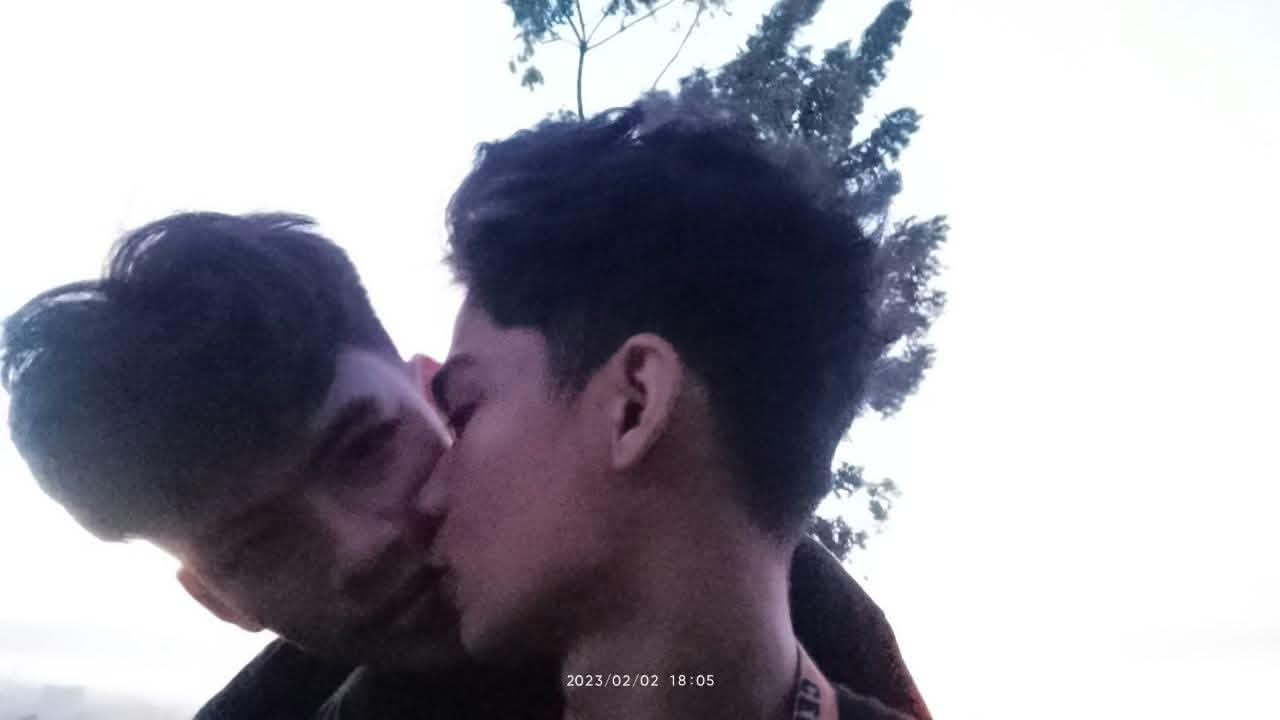
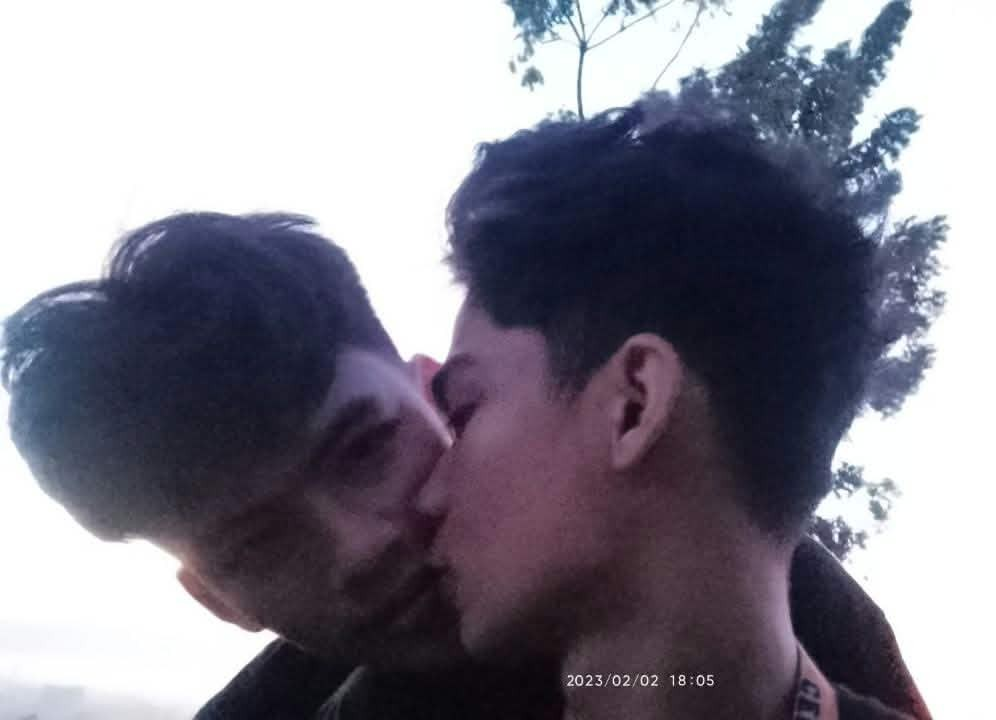
modified timelines & gallery

diff --git a/js/content.js b/js/content.js
@@ -30,33 +30,33 @@
                 {
                     year: '2023',
                     date: 'February 2023',
-                    title: 'The first hello',
-                    caption: 'That quiet little moment when everything suddenly felt brighter.',
-                    image: 'images/image2.jpg',
-                    alt: 'The first hello'
+                    title: 'The first kiss',
+                    caption: 'Our first kiss, a little moment that turned into one of my favorite memories with you.',
+                    image: 'images/image23.jpg',
+                    alt: 'Our first kiss, the beginning of a beautiful love story'
                 },
                 {
                     year: '2024',
-                    date: 'Summer 2024',
-                    title: 'Little adventures',
-                    caption: 'New places, laughter, and the kind of memories we still smile about.',
-                    image: 'images/image3.jpg',
-                    alt: 'Little adventures'
+                    date: 'April 2024',
+                    title: 'Our little family',
+                    caption: 'Me, you, and our little fur baby. Three hearts, one little family, and countless memories to cherish.',
+                    image: 'images/image14.jpg',
+                    alt: 'Me, my partner, and our beloved cat together'
                 },
                 {
                     year: '2025',
-                    date: 'March 2025',
-                    title: 'Our favorite rhythm',
-                    caption: 'The ordinary days that turned into our favorite story.',
-                    image: 'images/image4.jpg',
-                    alt: 'Our favorite rhythm'
+                    date: 'Summer 2025',
+                    title: 'Little adventures',
+                    caption: 'New places, laughter, and the kind of memories we still smile about.',
+                    image: 'images/image8.jpg',
+                    alt: 'Little adventures'
                 },
                 {
                     year: '2026',
                     date: 'Now',
                     title: 'Still choosing us',
                     caption: 'Every day with you feels like a small love letter we get to keep.',
-                    image: 'images/image5.jpg',
+                    image: 'images/image9.jpg',
                     alt: 'Still choosing us'
                 }
             ],
@@ -71,16 +71,38 @@
         },
 
         /* ---------- SECTION 3: PHOTO BOOTH GALLERY ---------- */
+        //8, 9, 14, 23
         gallery: {
             title: 'Photo Booth',
             subtitle: 'Drag, swipe or use the arrows',
             photos: [
-                { src: 'images/image5.jpg', caption: 'Us in bloom' },
-                { src: 'images/image6.jpg', caption: 'Sweet little moments' },
-                { src: 'images/image7.jpg', caption: 'Golden hour' },
-                { src: 'images/image8.jpg', caption: 'Happy us' },
-                { src: 'images/image9.jpg', caption: 'Always together' },
-                { src: 'images/image10.jpg', caption: 'Forever favorite' }
+                { src: 'images/image1.jpg', caption: 'Beach days with you' },
+                { src: 'images/image2.jpg', caption: 'Prom night' },
+                { src: 'images/image3.jpg', caption: 'Painting our hands' },
+                { src: 'images/image4.jpg', caption: 'Crying over movies' },
+                { src: 'images/image5.jpg', caption: 'Our first date, again' },
+                { src: 'images/image6.jpg', caption: 'Golden Hour' },
+                { src: 'images/image7.jpg', caption: 'Photobooth memories' },
+                { src: 'images/image10.jpg', caption: 'Outside the photobooth' },
+                { src: 'images/image16.jpg', caption: 'Meeting my best friend' },
+                { src: 'images/image17.jpg', caption: 'Beach days, again' },
+                { src: 'images/image18.jpg', caption: 'Time with your friends' },
+                { src: 'images/image19.jpg', caption: 'You and our little fur baby' },
+                { src: 'images/image20.jpg', caption: 'Time with your family' },
+                { src: 'images/image25.jpg', caption: 'School dates' },
+                { src: 'images/image22.jpg', caption: 'City adventures' },
+                { src: 'images/image24.jpg', caption: 'Picnic dates' },
+                { src: 'images/image26.jpg', caption: 'Online dates' },
+                { src: 'images/image27.jpg', caption: 'Spontaneous dates' },
+                { src: 'images/image28.jpg', caption: 'Oval dates' },
+                { src: 'images/image29.jpg', caption: 'My first flower' },
+                { src: 'images/image30.jpg', caption: 'School event dates' },
+                { src: 'images/image31.jpg', caption: 'Holding your hand' },
+                { src: 'images/image32.jpg', caption: 'Mall dates' },
+                { src: 'images/image33.jpg', caption: 'Christmas together' },
+                { src: 'images/image34.jpg', caption: 'Museum escapades' },
+                { src: 'images/image35.jpg', caption: 'Oval dates, again' },
+                { src: 'images/image36.jpg', caption: 'My first bouquet' },
             ]
         },
 

diff --git a/js/gallery.js b/js/gallery.js
@@ -11,6 +11,11 @@
 
     var reduce = !!(window.matchMedia && window.matchMedia('(prefers-reduced-motion: reduce)').matches);
     var photos = cfg.photos;
+
+    for (var i = photos.length - 1; i > 0; i--) {
+        var j = Math.floor(Math.random() * (i + 1));
+        [photos[i], photos[j]] = [photos[j], photos[i]];
+    }
     var N = photos.length;
     var MAX_VISIBLE = 3;           // prints further than this many slots from centre are hidden
 

diff --git a/js/love.js b/js/love.js
@@ -168,8 +168,8 @@
             ctx.moveTo(0, 0);
             ctx.scale(0.75, 0.75);
             ctx.font = "12px,Verdana";
-            //ctx.fillText("Click Me:) ", 30, -5);
-            ctx.fillText("For my favorite person \u{1F618}", 28, 10);
+            ctx.fillText("Press me :) ", 30, -5);
+            ctx.fillText("This is for my favorite person \u{1F618}", 28, 10);
             ctx.restore();
         },
         clear: function() {
